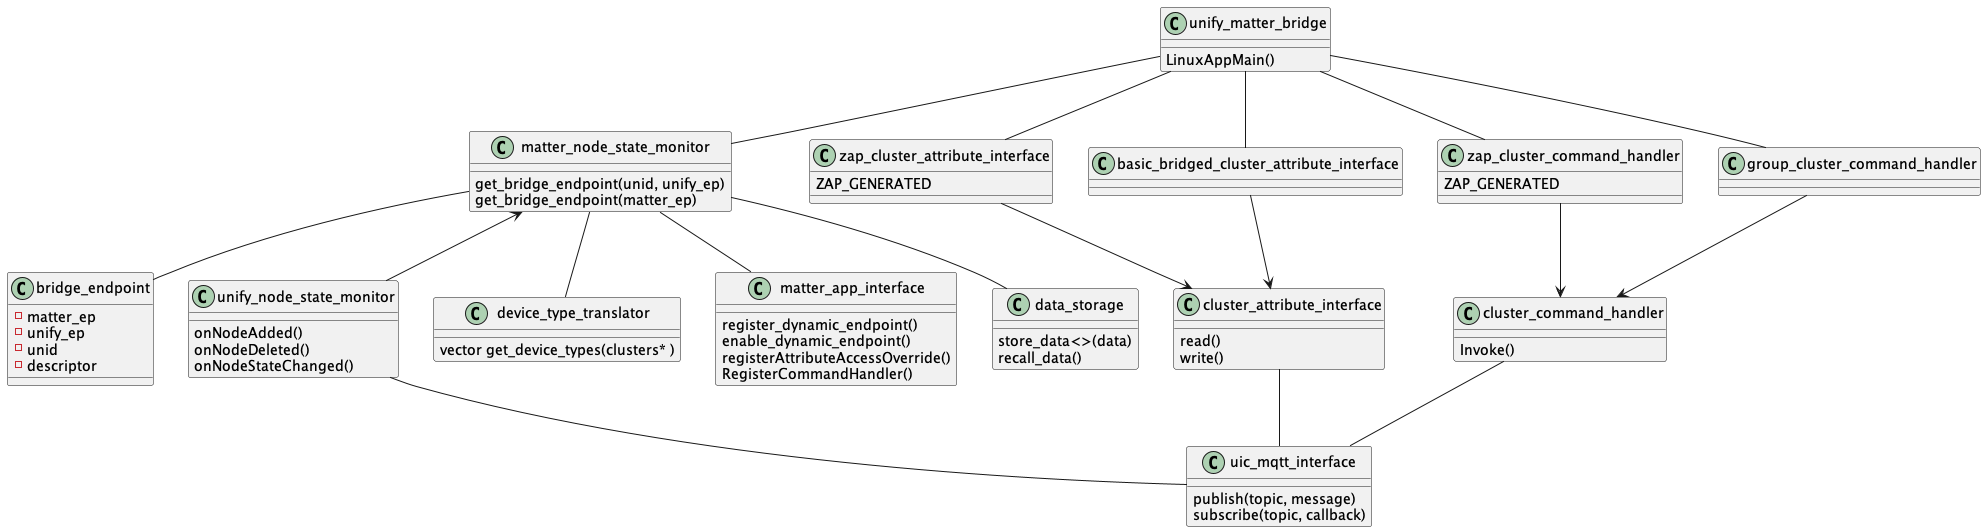
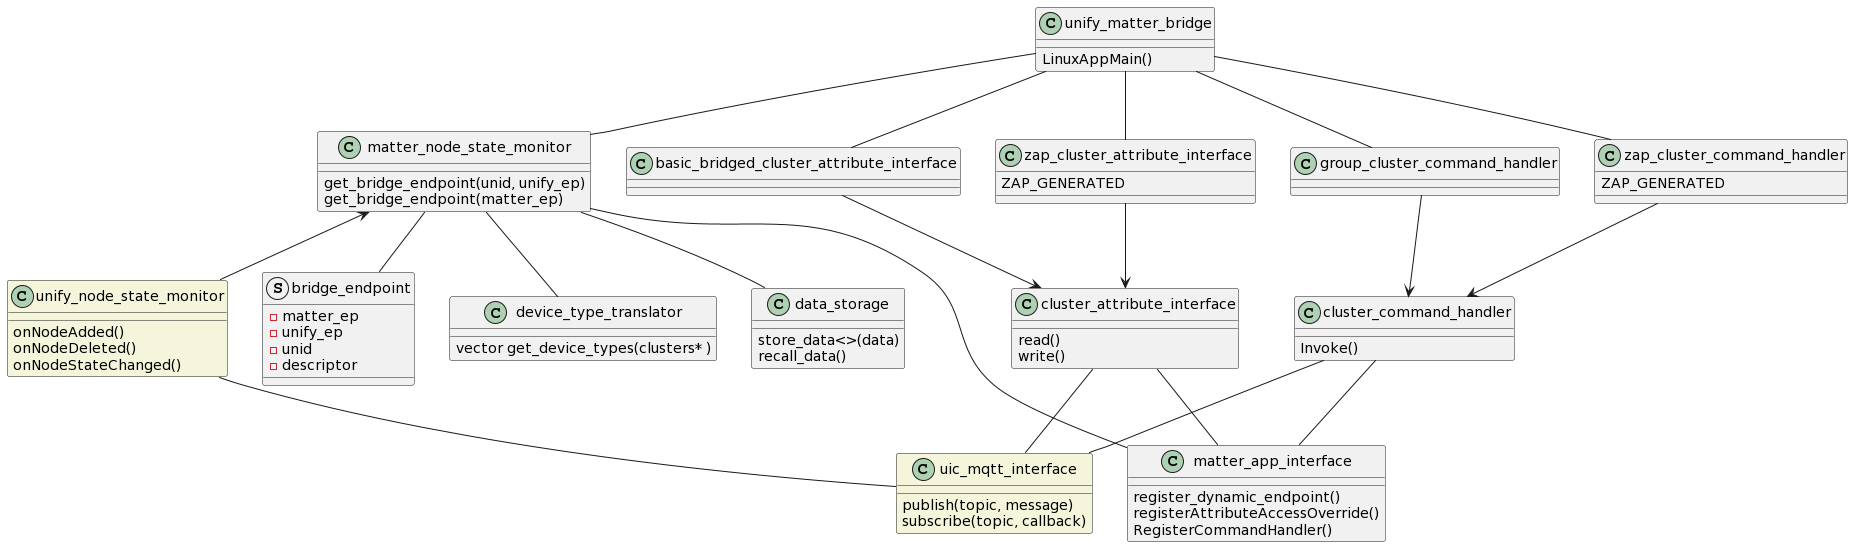
Pull request #1014: UIC-2822: UMB design documentation
Squashed commit of the following:

commit 0d89f5d68fe9671d31f719542bf429d609d94018
Author: Suhas Shankar <suhas.shankar@silabs.com>
Date:   Wed Aug 23 17:48:48 2023 +0530

    Updates from PR comments

commit be6b6680c1a2ad38310a011745e0d9780068a308
Author: Suhas Shankar <suhas.shankar@silabs.com>
Date:   Wed Aug 9 11:38:43 2023 +0530

    Removed extra-line

commit 2e2b150dc20f52c0d2ee4221b88414c97cb67d60
Author: Suhas Shankar <suhas.shankar@silabs.com>
Date:   Sat Aug 5 14:39:44 2023 +0530

    Updated with suggestions form PR comments.

... and 1 more commit

diff --git a/doc/UMB_Design.md b/doc/UMB_Design.md
@@ -1,0 +1,98 @@
+# Unify Matter Bridge(UMB) Design
+-   [Introduction](#introduction)
+-   [Component Overview](#component-overview)
+-   [Bridged Node Inclusion and Mapping](#unify-node-inclusion-and-mapping)
+-   [Command Handling](#cluster-command-handling)
+-   [Attribute Access](#attribute-access)
+
+## Introduction
+The purpose of the Unify Matter Bridge is to make nodes from legacy protocols available on a matter fabric, in such a way that they can be operated and monitored through the matter fabric. The system level design consisting of the Unify Matter Bridge and a number of Unify Protocol Controllers is as shown in figure below.
+![SystemDiagram](../UnifyMatterSystem.png)
+
+For detailed overview, refer [readme_overview](../readme_overview.md). This document focuses on the design of UMB.
+
+## Component Overview
+![Software Components](./software_architecture.png)
+### Node Monitoring
+Node Monitoring consists of below components and is responsible for keeping track of nodes included in the Unify gateway and mapping them bridged enpoints. Detailed process in [Node Inclusion Section](#unify-node-inclusion-and-mapping)
+- **Unify Node State Monitor**  :  <br>
+    This tracks the publish messages on State topic for the nodes in Unify network and updates, and triggers events to Matter Node State Monitor when 
+    -  New Node is added
+    -  Existing Node is removed
+    -  Existing Node's state changes
+- **Device Type Translator**    : <br>
+    This component helps determines the matter device type for the node being added based on the clusters it supports. It also provides below translations:
+    -  Unify Cluster Name -> CHIP Cluster ID 
+    -  Unify cluster and attribute name -> CHIP Attribute ID 
+    -  Unify cluster and command name -> CHIP Command ID
+    -  CHIP cluster name -> CHIP Cluster ID
+    -  CHIP cluster and attribute name -> CHIP Attribute ID 
+    -  CHIP cluster and command name -> CHIP Command ID
+- **Matter App Interface**      : <br>
+    This provides with utilies and wrapper interface to Matter stack to register a legacy node and its capabilities as dynamic endpoint
+- **Matter Node State Monitor** : <br>
+    This is the binding component which acts on events from unify node state monitor, converts it and matter bridged endpoint with help of device type tanslator and matter app interface. It is also responsible for maintaining the mappings between matter endpoint ID and its corresponding UNID and EPIDs.
+
+### Bridged Device Basic Information Cluster
+**Basic Bridged Cluster Atrribute Interface**: <br>
+The Unify Matter Bridge must fill in the Bridged Device Information cluster to the greatest extent possible, most fields can be derived directly from the UCL Basic Cluster. The Unify Name and Location cluster will ensure that we can map the NodeLabel in a sensible way.
+
+`Note: When the functionality of a Bridged Device is represented using a set of Endpoints, this cluster SHALL only be exposed on the Endpoint which is at the top of the hierarchy for the functionality of that Bridged Device.`
+
+| BDBI Attribute | Required | Unify Topic |
+|----------------|----------|-------------|
+|VendorName	     | O        |	ucl/by-unid/+/ep0/Basic/Attributes/ManufacturerName/Reported |
+|VendorID	       |  O	      | ucl/by-unid/+/ep0/Basic/Attributes/ApplicationVersion/Reported |
+|ProductName	| O |	ucl/by-unid/+/ep0/Basic/Attributes/ModelIdentifier/Reported|
+|NodeLabel	| O |	ucl/by-unid/+/ep0/NameAndLocation/Attributes/Name|
+|HardwareVersion | O | ucl/by-unid/+/ep0/Basic/Attributes/HWVersion/Reported|
+|HardwareVersionString | O | ucl/by-unid/+/ep0/Basic/Attributes/HWVersion/Reported <br> ucl/by-unid/+/ep0/Basic/Attributes/ModelIdentifier/Reported |
+|SoftwareVersion | O | ucl/by-unid/+/ep0/Basic/Attributes/ApplicationVersion/Reported|
+|SoftwareVersionString | O | ucl/by-unid/+/ep0/Basic/Attributes/ApplicationVersion/Reported <br> ucl/by-unid/+/ep0/Basic/Attributes/SWBuildID/Reported |
+|ManufacturingDate | O | ucl/by-unid/+/ep0/Basic/Attributes/DateCode/Reported |
+|PartNumber | O | ucl/by-unid/+/ep0/Basic/Attributes/ProductCode/Reported |
+|ProductURL | O | ucl/by-unid/+/ep0/Basic/Attributes/ProductURL/Reported |
+ProductLabel | O | ucl/by-unid/+/ep0/Basic/Attributes/ProductLabel/Reported |
+|SerialNumber | O | ucl/by-unid/+/ep0/Basic/Attributes/SerialNumber/Reported |
+|Reachable | M | ucl/by-unid/+/State |
+|UniqueID | O | ucl/by-unid/+/ep0/Basic/Attributes/ApplicationVersion/Reported |
+|
+
+
+### Cluster specific Attribute Access Interfaces
+The controller may perform read and write operations on individual attribute of any cluster on any bridged endpoint. The matter bridge must implement translators that convert the write operation to corresponding WriteAttribute Unify MQTT message. It shall also parse and store ReportedValue(s) of all attributes from unsolicited publish messages from Protocol Controllers when there is update on attribute. The stored values shall be refered to while responding to Read operation on that resource. These translators and parser interfaces shall be zap generated to the greatest extent possible. <br>
+The translators will be fairly simple, as both the Unfiy data model and the Matter data model are both based on Zigbee Cluster Library. However, there are still some discrepancies. In order to bridge these gaps, some cluster attributes may need to be emulated to best extent possible by matter bridge.
+
+More details in [Attribute Access](#attribute-access) section below.
+
+### Cluster specific Command Handler Interfaces
+The commands invoked by controller will also need translation to Unify MQTT topic space. For this purpose, matter bridge must implement command mappers/translator which translates the matter command received from matter interface into relevant MQTT topic space and payload of Unify data model. These mappers/translators shall also be zap generated to the greatest extent possible. 
+
+More details in [Command Handling](#cluster-command-handling) section below.
+
+### Group Command Handling
+The Matter Bridge endpoints may become part of a group. The matter bridge must create/remove Unify groups corresponding to the matter groups. The bridge should have an internal group table with (<matter_group_id>, <unify_group_ids>) tuples. The group table must be updated when groups are added or removed on the matter fabric. When a group message is received on the matter fabric, this command must be translated and propagated to the corresponding Unify Group.
+
+**Group Communication** <br>
+Matter multi-cast group is managed using 16-bits Group ID and tracked via Group Key Management Cluster. The Unify Matter Bridge shall register to receive on associated IPv6 multicast address, and the matter IPv6 multicast port for each group they are a member. Group Key Management Cluster manages group keys and maintains a list of groups supported via a node. Each group entry includes a membership list of zero of more endpoints that are members of the group on the node. Modification of this membership list is done via the Groups cluster, which is scoped to an endpoint. The Groups cluster is scoped to the endpoint. Groups cluster commands support discovering the endpoint membership in a group, adding the endpoint to a group, removing the endpoint from a group, removing endpoint membership from all groups. All commands defined in this cluster SHALL only affect groups scoped to the accessing fabric. The Unify matter bridge shall have a component that manages Group IDs via caching the list of endpoints.
+When it receives a group command it shall translate the commands to an MQTT group cluster hierarchy publication to notify the respected Protocol controller.
+
+## Unify Node Inclusion and Mapping
+![Unify Node Inclusion](./commissioning_flow.png)
+
+When a new node's state topic is published by protocol controller, the Unify node state monitor component shall read the network capabilities and ultimately relay to matter node monitor that a new node has been added along with the description/capabilities read during node interview. The Unify capabilities/description are then translated to a preliminary matter description. Further any mandatory or necessary cluster, if it can be emulated, is added into description. A list of device types are then derived by the device type mapper based on the description, forming a full description for the Unify node as matter endpoint, which is then registered as a dynamic endpoint into matter stack. 
+
+## Cluster Command Handling
+![Command Handling](./receiving_matter_command.png)
+
+Each cluster's command handler shall register itself to matter stack as command handler. When a command is received matter stack will invoke the registered command handler to process the command. The command handler shall implement an InvokeCommand method which processes the command specific to the cluster. The command handler shall check if the received command is actually supported by device and can be handled by it or if its supported though emulation and direct the command to either the emulator implementation or towards Unify node. The emulator implementation may be completely emulated in which just a custom action is executed or it may also additionally translate and send a UCL MQTT message. When there is no emulation the command is directly translated to UCL topic and the command parameters to the JSON body of the UCL MQTT message.  
+
+## Attribute Access
+![Attribute Access](./attribute_access.png)
+### Attribute Read 
+The matter bridge shall subscribe to all the topic spaces specific to the clusters supported. The matter bridge gets the reported value published and translates the UCL topic and its payload to the corresponding mapped enpoint, cluster's attribute and its value. The translated value is stored it in cache which is later refered to when there is a Read from matter fabric.
+
+Each attribute translator shall register itself to matter stack as Attribute access override. When there is a Read request from matter fabric, matter stack will invoke the registered override to fetch the attribute value. The attribute translator shall implement `Read` method to process the Read request. The `Read` in each translator shall check if the attribute being read is an emulated attribute and redirect the request to emulator. When not emulated the attribute value should be available in the cache which fetched and returned after encoding it in expected format. 
+
+### Attribute Write 
+Each attribute translator shall register itself to matter stack as Attribute access override. When there is a Write request from matter fabric, matter stack will invoke the registered override to write the attribute value. The attribute translator shall implement `Write` method to process the Write request. The `Write` in each translator shall check if the attribute being written is a emulated attribute and redirect the request to emulator. When not emulated the attribute write is converted to corresponding WriteAttributes UCL topic and value is converted to JSON body of the UCL MQTT message and published to broker. The emulator may just perform some custom action limited to matter bridge or it may additionally perform a custom translation and publish to broker if needed.
